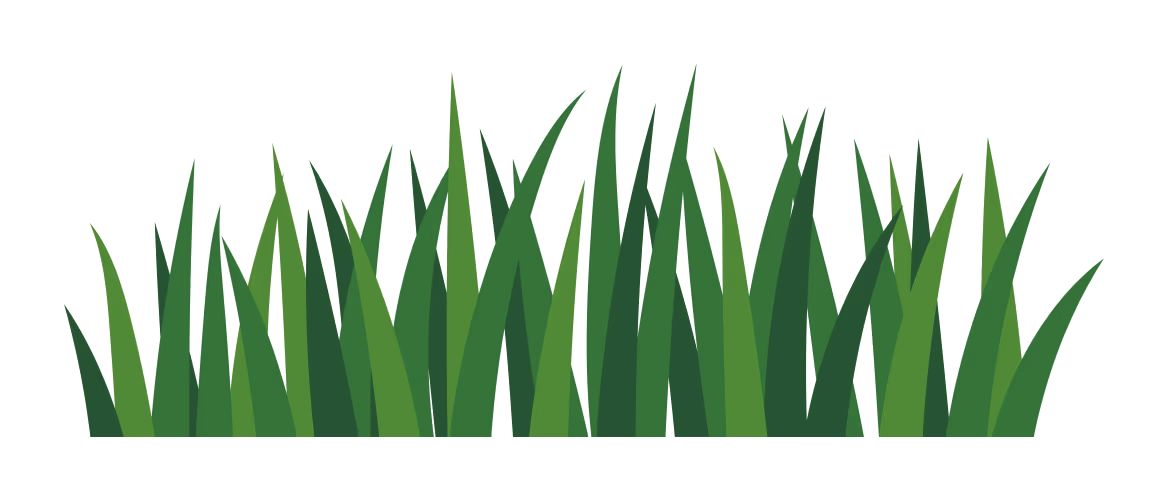
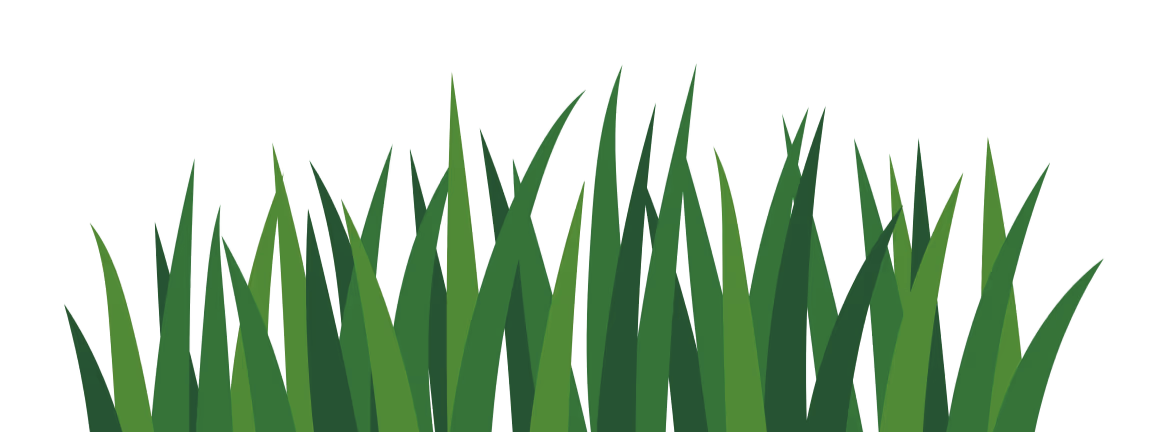
hero refined

Changed region(s): [[0.0308, 0.1505, 0.9563, 1.0]]

diff --git a/src/components/Hero.tsx b/src/components/Hero.tsx
@@ -136,7 +136,7 @@ export default function Hero() {
                     </div>
                 </div>
                 {/* Gradient Overlay */}
-                <div className="absolute inset-0 bg-gradient-to-b from-transparent via-background-light/50 to-background-light dark:via-background-dark/50 dark:to-background-dark z-10"></div>
+                <div className="absolute inset-0 bg-gradient-to-b from-transparent via-background-light/20 to-background-light dark:via-background-dark/20 dark:to-background-dark z-10"></div>
             </div>
 
             <div className="relative z-40 flex flex-col items-center text-center max-w-4xl mx-auto space-y-4 md:space-y-6 -translate-y-8 md:-translate-y-12 lg:-translate-y-16">
@@ -240,6 +240,9 @@ export default function Hero() {
                     ))}
                 </div>
             </div>
+
+            {/* Final Bottom Fade — Ensures grass "melts" into body background */}
+            <div className="absolute bottom-0 left-0 w-full h-16 md:h-24 bg-gradient-to-t from-background-light dark:from-background-dark to-transparent z-40 pointer-events-none" />
         </section>
     );
 }
